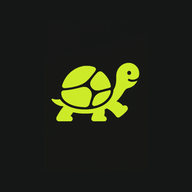
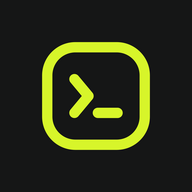
feat(brand): replace the turtle logomark with a terminal prompt
The mark is a chartreuse rounded frame around a `>` chevron and cursor,
drawn to the same rounded-stroke language as the HugeIcons set the product
already uses. Every raster is regenerated from that one SVG, and the GitHub
header now sets TRADEMARK beside the mark so the glyph reads as the second
word of the name.

Changed region(s): [[0.2188, 0.2188, 0.7812, 0.7812]]

diff --git a/apps/web/test/brand-assets.test.ts b/apps/web/test/brand-assets.test.ts
@@ -1,11 +1,11 @@
 import { expect, test } from "bun:test";
 
-const turtleMark = await Bun.file(
-  new URL("../../../assets/brand/turtle-mark.svg", import.meta.url)
+const terminalMark = await Bun.file(
+  new URL("../../../assets/brand/terminal-mark.svg", import.meta.url)
 ).text();
 
-test("the turtle mark is a browser-safe standalone SVG", () => {
-  expect(turtleMark.startsWith("<svg ")).toBe(true);
-  expect(turtleMark).toContain("<title>Trademark Turtle</title>");
-  expect(turtleMark).not.toContain("<?xml");
+test("the terminal mark is a browser-safe standalone SVG", () => {
+  expect(terminalMark.startsWith("<svg ")).toBe(true);
+  expect(terminalMark).toContain("<title>Trademark Terminal</title>");
+  expect(terminalMark).not.toContain("<?xml");
 });

diff --git a/assets/brand/brand.css b/assets/brand/brand.css
@@ -1,6 +1,6 @@
 :root {
-  --tmturtle-chartreuse: #d7f52a;
-  --tmturtle-near-black: #151616;
-  --tmturtle-warm-white: #f5f2ea;
-  --tmturtle-font-family: "Archivo Variable", "Archivo", sans-serif;
+  --tmterminal-chartreuse: #d7f52a;
+  --tmterminal-near-black: #151616;
+  --tmterminal-warm-white: #f5f2ea;
+  --tmterminal-font-family: "Archivo Variable", "Archivo", sans-serif;
 }

diff --git a/assets/brand/README.md b/assets/brand/README.md
@@ -1,32 +1,37 @@
-# Trademark Turtle brand kit
+# Trademark Terminal brand kit
 
-Trademark Turtle uses one logo treatment: the acid-chartreuse turtle on near-black. Dark interfaces may place the transparent mark directly on the page. Light interfaces use the protected dark-field asset; do not create an inverted light-mode mark.
+Trademark Terminal uses one logo treatment: the acid-chartreuse prompt mark on near-black. Dark interfaces may place the transparent mark directly on the page. Light interfaces use the protected dark-field asset; do not create an inverted light-mode mark.
+
+The full lockup sets the word `TRADEMARK` in heavy Archivo beside the mark, so the mark reads as the second word of the name.
 
 ## Assets
 
 | File | Use |
 | --- | --- |
 | `github-header.png` | 4:1 repository and social header |
-| `turtle-mark.svg` | Canonical scalable mark on dark surfaces |
-| `turtle-mark.png` | 1024 px transparent raster mark |
-| `turtle-mark-dark-field.png` | 1024 px protected treatment for light surfaces |
+| `terminal-mark.svg` | Canonical scalable mark on dark surfaces |
+| `terminal-mark.png` | 1024 px transparent raster mark |
+| `terminal-mark-dark-field.png` | 1024 px protected treatment for light surfaces |
 | `app-icon-512.png` | Large application icon |
 | `app-icon-192.png` | Web application icon |
 | `favicon-64.png` | High-density browser icon |
 | `favicon-32.png` | Standard browser icon |
 | `brand.css` | Shared color and typography tokens |
 
+The website serves the browser and application icons from `apps/web/public`, which
+symlinks the files above. Regenerating an icon here updates the website with it.
+
 ## Rules
 
-- Keep the turtle acid chartreuse (`#D7F52A`).
+- Keep the mark acid chartreuse (`#D7F52A`).
 - Place the transparent mark only on near-black (`#151616`) or an equivalently dark neutral.
 - On light or photographic surfaces, use the protected dark-field asset.
-- Preserve the turtle's proportions, stride, face, and shell patches.
-- Do not invert, outline, recolor, rotate, crop, add effects, or redraw the mark.
+- Preserve the square frame, stroke weight, and the prompt's baseline alignment.
+- Do not invert, recolor, rotate, crop, add effects, fill the frame, or redraw the mark.
 - Keep clear space of at least one eighth of the mark width on every side.
-- Use at 32 px or larger when the face and shell must remain legible.
+- Use at 32 px or larger so the chevron and cursor stay separable.
 
-The turtle is a logomark, not a UI mascot. It does not appear as decorative empty-state art, animation, or product illustration.
+The mark is a logomark, not a UI mascot. It does not appear as decorative empty-state art, animation, or product illustration.
 
 ## Visual system
 
